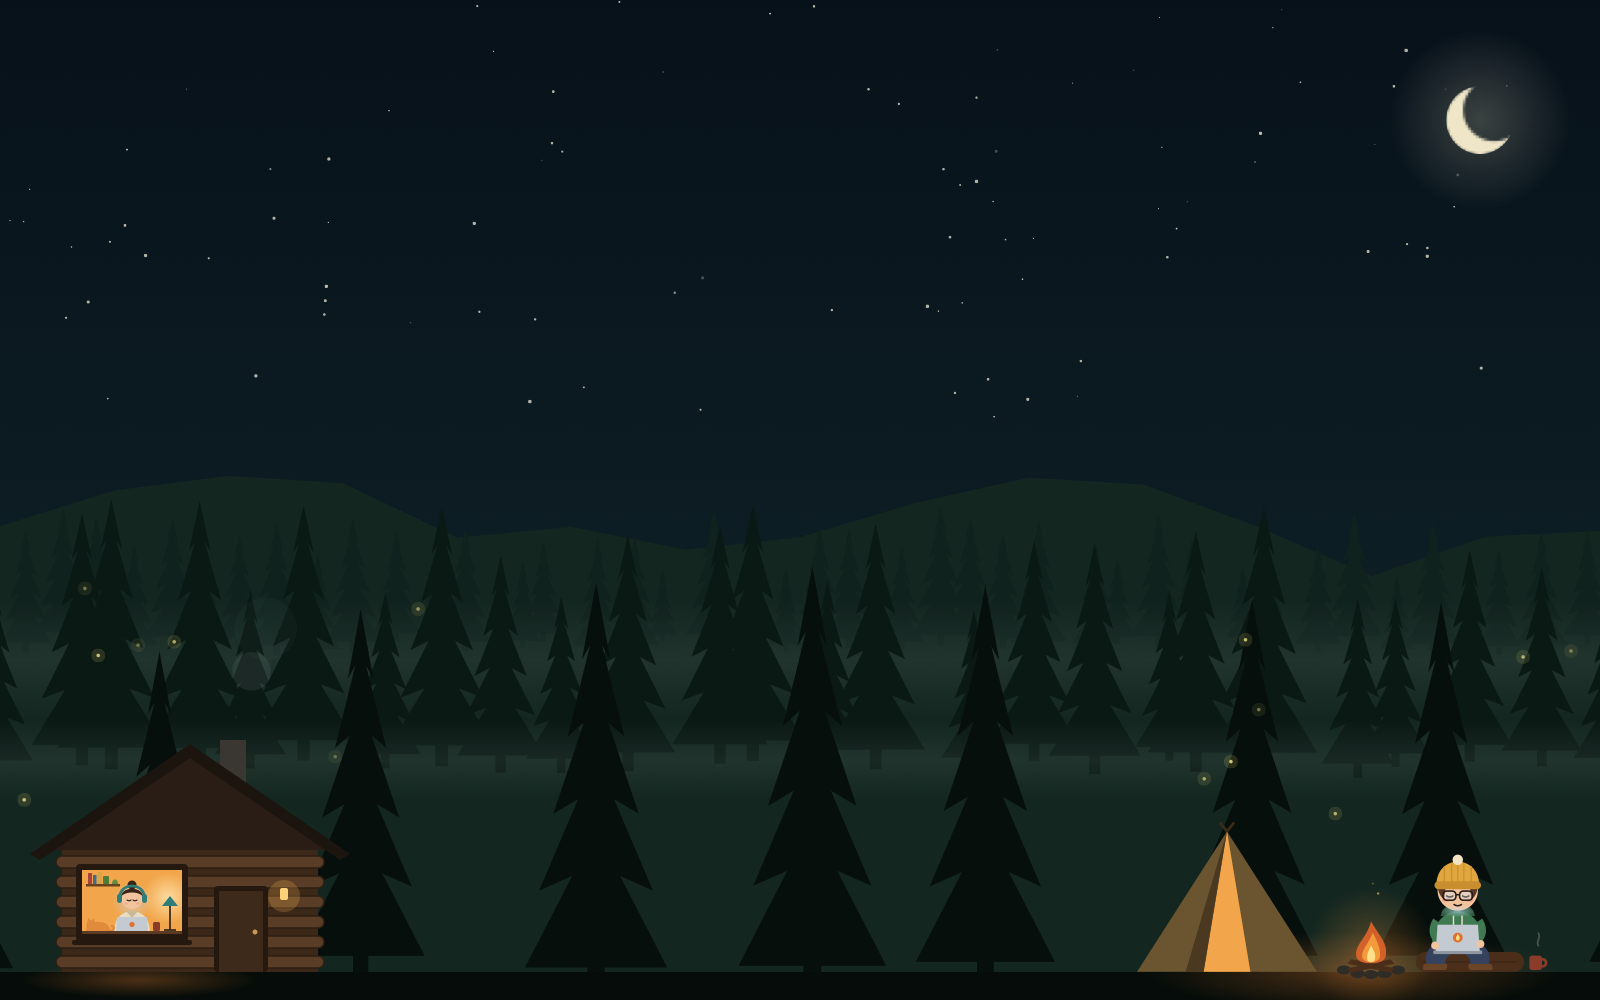
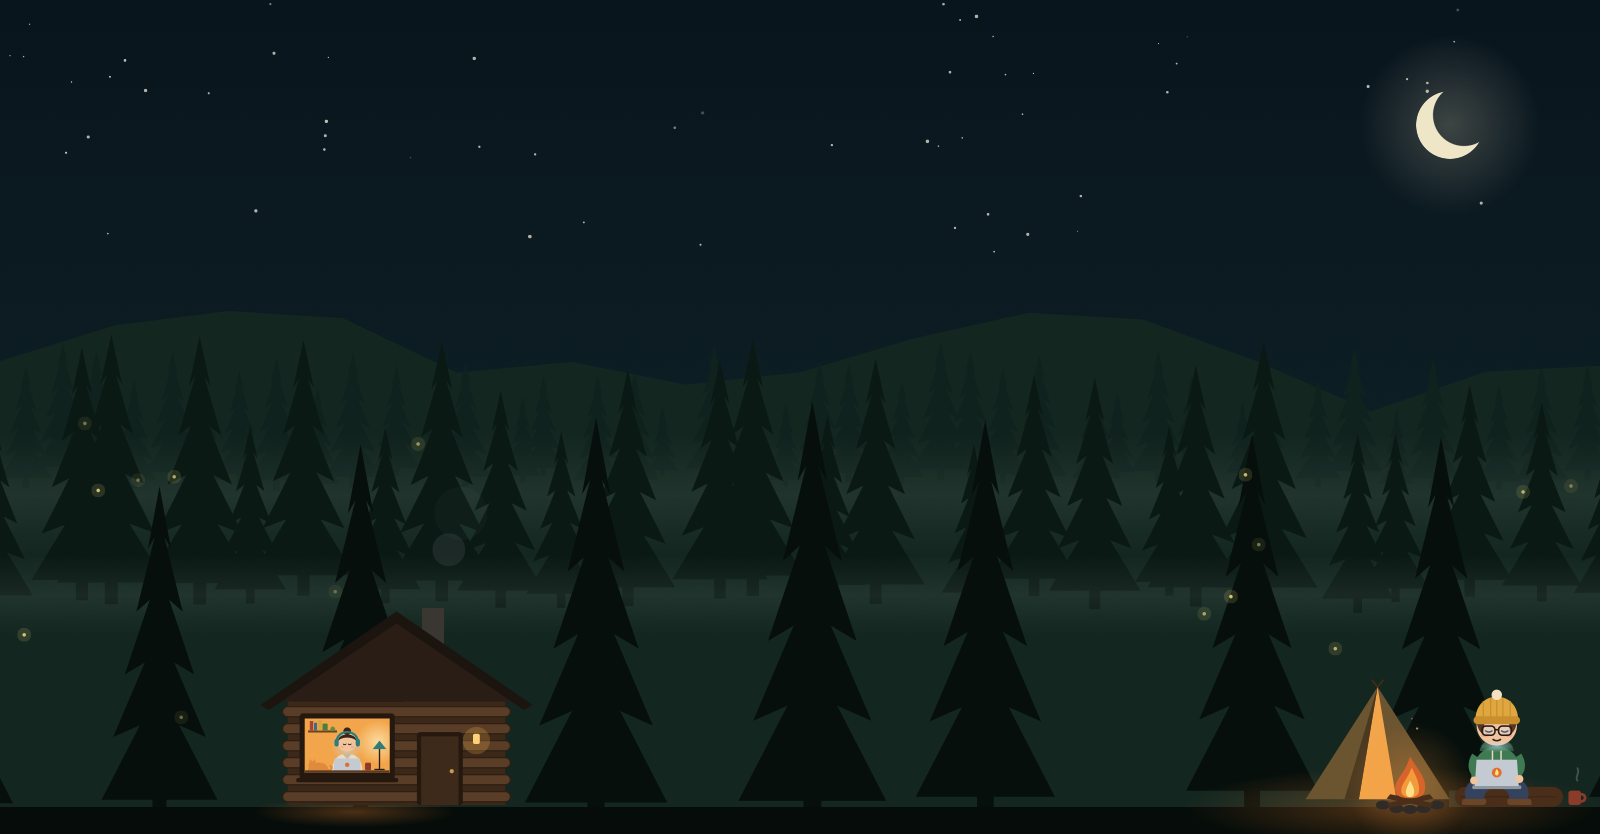
Keep the cabin and campsite in view on wide windows (0.1.1)
Anchor the backdrop to the bottom so wide windows crop only the sky,
move the cabin between the sidebar and the chat column, set the tent
back behind the fire, and lower the moon.

diff --git a/hooks/scene.ts b/hooks/scene.ts
@@ -1,5 +1,5 @@
 // Generated by gen-scene.mjs: a quiet pine forest at night, a log cabin and a campfire.
-export const SCENE = `<svg xmlns="http://www.w3.org/2000/svg" viewBox="0 0 1600 1000" preserveAspectRatio="xMidYMid slice">
+export const SCENE = `<svg xmlns="http://www.w3.org/2000/svg" viewBox="0 0 1600 1000" preserveAspectRatio="xMidYMax slice">
 <defs>
 <linearGradient id="sky" x1="0" y1="0" x2="0" y2="1"><stop offset="0" class="sky-a"/><stop offset=".55" class="sky-b"/><stop offset="1" class="sky-c"/></linearGradient>
 <mask id="crescent"><circle cx="300" cy="110" r="34" fill="#fff"/><circle cx="314" cy="100" r="31" class="moon-cut" fill="#000"/></mask>
@@ -95,7 +95,7 @@ export const SCENE = `<svg xmlns="http://www.w3.org/2000/svg" viewBox="0 0 1600 
 <rect width="1600" height="1000" fill="url(#sky)"/>
 <g class="stars"><circle cx="1374.9" cy="144.3" r="0.6" class="tw tw0"/><circle cx="1077.5" cy="396.2" r="0.6"/><circle cx="208.7" cy="258.3" r="1.2"/><circle cx="1281.8" cy="9.8" r="0.6" class="tw tw3"/><circle cx="943.5" cy="169.2" r="1.4"/><circle cx="328.3" cy="222.4" r="0.8"/><circle cx="1457.8" cy="175" r="1.6" class="tw tw2"/><circle cx="1445.8" cy="89.1" r="0.6"/><circle cx="1072.4" cy="83.1" r="0.7"/><circle cx="1255" cy="162" r="0.9" class="tw tw1"/><circle cx="274" cy="218.2" r="1.7"/><circle cx="127" cy="149.6" r="1.1"/><circle cx="66.1" cy="317.7" r="1.2" class="tw tw0"/><circle cx="663.1" cy="72" r="0.7"/><circle cx="1158.6" cy="208.7" r="0.7"/><circle cx="1481.2" cy="368.1" r="1.7" class="tw tw3"/><circle cx="938.4" cy="311.1" r="0.9"/><circle cx="479.4" cy="311.7" r="1.3"/><circle cx="1133.7" cy="70.3" r="0.8" class="tw tw2"/><circle cx="328.9" cy="159" r="1.8"/><circle cx="1393.9" cy="86.3" r="1.5"/><circle cx="10" cy="220.6" r="0.9" class="tw tw1"/><circle cx="950" cy="237.2" r="1.5"/><circle cx="1454.2" cy="206.7" r="1"/><circle cx="1005.5" cy="239.6" r="1" class="tw tw0"/><circle cx="700.5" cy="409.7" r="1.2"/><circle cx="1427.2" cy="256.2" r="1.8"/><circle cx="493.5" cy="51.3" r="0.8" class="tw tw3"/><circle cx="1161.9" cy="147.2" r="0.8"/><circle cx="71.5" cy="247" r="0.9"/><circle cx="702.7" cy="277.9" r="1.7" class="tw tw2"/><circle cx="88.2" cy="302" r="1.7"/><circle cx="960.1" cy="185" r="1"/><circle cx="1506.9" cy="85.9" r="0.8" class="tw tw1"/><circle cx="562.3" cy="151.6" r="1.2"/><circle cx="976.5" cy="181.4" r="1.9"/><circle cx="619.4" cy="1.9" r="1.1" class="tw tw0"/><circle cx="1368.1" cy="251.5" r="1.7"/><circle cx="29.6" cy="189.2" r="0.8"/><circle cx="898.8" cy="103.9" r="1.3" class="tw tw3"/><circle cx="389" cy="110.7" r="0.9"/><circle cx="109.9" cy="241.8" r="1.1"/><circle cx="1187.2" cy="201.8" r="0.8" class="tw tw2"/><circle cx="993.1" cy="201.5" r="0.9"/><circle cx="927.4" cy="306.3" r="1.9"/><circle cx="1272.9" cy="27.6" r="0.9" class="tw tw1"/><circle cx="1407.1" cy="244.2" r="1.2"/><circle cx="553.3" cy="91.6" r="1.5"/><circle cx="326.3" cy="286.3" r="1.8" class="tw tw0"/><circle cx="1027.8" cy="399.3" r="1.7"/><circle cx="962.2" cy="302.9" r="0.9"/><circle cx="1427.4" cy="248" r="1.4" class="tw tw3"/><circle cx="955" cy="392.9" r="1.3"/><circle cx="145.6" cy="255.5" r="1.8"/><circle cx="997.4" cy="49.9" r="1" class="tw tw2"/><circle cx="529.9" cy="401.6" r="1.9"/><circle cx="1300.4" cy="82.2" r="1"/><circle cx="270.4" cy="169.1" r="1.2" class="tw tw1"/><circle cx="831.8" cy="310.1" r="1.3"/><circle cx="541.9" cy="160.2" r="0.6"/><circle cx="1176.6" cy="228.6" r="1.1" class="tw tw0"/><circle cx="1167.4" cy="257.3" r="1.4"/><circle cx="770.1" cy="13.6" r="1.1"/><circle cx="477.3" cy="6.1" r="1.2" class="tw tw3"/><circle cx="1080.8" cy="361.1" r="1.4"/><circle cx="23.6" cy="221.6" r="0.9"/><circle cx="996.2" cy="151.3" r="1.6" class="tw tw2"/><circle cx="186.4" cy="89.1" r="0.6"/><circle cx="868.5" cy="89.3" r="1.4"/><circle cx="674.7" cy="292.7" r="1.4" class="tw tw1"/><circle cx="324.4" cy="314.5" r="1.4"/><circle cx="474.2" cy="223.4" r="1.8"/><circle cx="125" cy="225.4" r="1.5" class="tw tw0"/><circle cx="1033.4" cy="238.4" r="0.8"/><circle cx="583.8" cy="387.4" r="1.1"/><circle cx="107.8" cy="398.6" r="1" class="tw tw3"/><circle cx="1406.1" cy="50.4" r="1.9"/><circle cx="994.1" cy="416.7" r="1"/><circle cx="410.5" cy="322.7" r="0.9" class="tw tw2"/><circle cx="988.1" cy="379.3" r="1.5"/><circle cx="325.3" cy="300.7" r="1.6"/><circle cx="1490.3" cy="145.3" r="1.1" class="tw tw1"/><circle cx="1022.5" cy="279.2" r="1"/><circle cx="1159.5" cy="17.4" r="0.6"/><circle cx="1260.5" cy="133.3" r="1.8" class="tw tw0"/><circle cx="976.5" cy="97.6" r="1.3"/><circle cx="552" cy="143.2" r="1.4"/><circle cx="535.2" cy="319.4" r="1.3" class="tw tw3"/><circle cx="255.9" cy="375.9" r="1.8"/><circle cx="814" cy="6.4" r="1.4"/></g>
 
-<g transform="translate(1180 10)">
+<g transform="translate(1150 180)">
   <circle cx="300" cy="110" r="90" fill="url(#moonHalo)"/>
   <circle cx="300" cy="110" r="34" class="moon" mask="url(#crescent)"/>
 </g>
@@ -109,7 +109,7 @@ export const SCENE = `<svg xmlns="http://www.w3.org/2000/svg" viewBox="0 0 1600 
 <path d="M0 972H1600V1000H0Z" class="ground"/>
 <g class="flies"><g class="fly" style="animation-duration:14.9s;animation-delay:-10.6s"><circle cx="81.8" cy="676.9" r="7" class="fly-halo"/><circle cx="81.8" cy="676.9" r="1.8" class="fly-core"/></g><g class="fly" style="animation-duration:10.3s;animation-delay:-7.7s"><circle cx="1217.7" cy="778.9" r="7" class="fly-halo"/><circle cx="1217.7" cy="778.9" r="1.8" class="fly-core"/></g><g class="fly" style="animation-duration:13.6s;animation-delay:-10.6s"><circle cx="13.8" cy="813.4" r="7" class="fly-halo"/><circle cx="13.8" cy="813.4" r="1.8" class="fly-core"/></g><g class="fly" style="animation-duration:14.7s;animation-delay:-4.8s"><circle cx="1503.6" cy="682.4" r="7" class="fly-halo"/><circle cx="1503.6" cy="682.4" r="1.8" class="fly-core"/></g><g class="fly" style="animation-duration:14.8s;animation-delay:-6.3s"><circle cx="113.2" cy="677.6" r="7" class="fly-halo"/><circle cx="113.2" cy="677.6" r="1.8" class="fly-core"/></g><g class="fly" style="animation-duration:13.3s;animation-delay:-7.7s"><circle cx="1546.3" cy="683.3" r="7" class="fly-halo"/><circle cx="1546.3" cy="683.3" r="1.8" class="fly-core"/></g><g class="fly" style="animation-duration:15.4s;animation-delay:-8.7s"><circle cx="156.1" cy="915.2" r="7" class="fly-halo"/><circle cx="156.1" cy="915.2" r="1.8" class="fly-core"/></g><g class="fly" style="animation-duration:11.5s;animation-delay:-2.2s"><circle cx="1327.4" cy="824" r="7" class="fly-halo"/><circle cx="1327.4" cy="824" r="1.8" class="fly-core"/></g><g class="fly" style="animation-duration:14.2s;animation-delay:-9.3s"><circle cx="153.4" cy="669" r="7" class="fly-halo"/><circle cx="153.4" cy="669" r="1.8" class="fly-core"/></g><g class="fly" style="animation-duration:9.1s;animation-delay:-3.7s"><circle cx="1234.6" cy="741.2" r="7" class="fly-halo"/><circle cx="1234.6" cy="741.2" r="1.8" class="fly-core"/></g><g class="fly" style="animation-duration:12.5s;animation-delay:-6.1s"><circle cx="309.2" cy="790.6" r="7" class="fly-halo"/><circle cx="309.2" cy="790.6" r="1.8" class="fly-core"/></g><g class="fly" style="animation-duration:12.2s;animation-delay:-2.1s"><circle cx="1197.8" cy="787.2" r="7" class="fly-halo"/><circle cx="1197.8" cy="787.2" r="1.8" class="fly-core"/></g><g class="fly" style="animation-duration:10.7s;animation-delay:-6.2s"><circle cx="60.2" cy="620.7" r="7" class="fly-halo"/><circle cx="60.2" cy="620.7" r="1.8" class="fly-core"/></g><g class="fly" style="animation-duration:10.8s;animation-delay:-4.1s"><circle cx="1584.3" cy="918.9" r="7" class="fly-halo"/><circle cx="1584.3" cy="918.9" r="1.8" class="fly-core"/></g><g class="fly" style="animation-duration:13.9s;animation-delay:-5.1s"><circle cx="395.9" cy="638" r="7" class="fly-halo"/><circle cx="395.9" cy="638" r="1.8" class="fly-core"/></g><g class="fly" style="animation-duration:15.2s;animation-delay:-3.8s"><circle cx="1232.5" cy="656.8" r="7" class="fly-halo"/><circle cx="1232.5" cy="656.8" r="1.8" class="fly-core"/></g></g>
 
-<g transform="translate(0 580)">
+<g transform="translate(235 637) scale(0.85)">
   <!-- window light on the ground -->
   <ellipse cx="140" cy="400" rx="120" ry="18" fill="url(#fireGround)" class="ground-glow"/>
   <!-- chimney smoke -->
@@ -170,13 +170,15 @@ export const SCENE = `<svg xmlns="http://www.w3.org/2000/svg" viewBox="0 0 1600 
   <rect x="280" y="308" width="8" height="12" rx="2" class="lantern"/>
 </g>
 
-<g transform="translate(1110 619) scale(0.9)">
+<g transform="translate(1149 619) scale(0.9)">
   <ellipse cx="270" cy="392" rx="230" ry="44" fill="url(#fireGround)" class="ground-glow"/>
-  <!-- tent, lit from inside -->
+  <!-- tent, lit from inside, set back behind the fire -->
+  <g transform="translate(150 70) scale(0.8)">
   <path d="M30 392L130 236L230 392Z" class="tent"/>
   <path d="M130 236L104 392H156Z" class="tent-in"/>
   <path d="M130 236L84 392H104Z" class="tent-flap"/>
   <path d="M130 236L122 226M130 236L138 226" class="rope"/>
+  </g>
   <!-- campfire -->
   <g transform="translate(290 392)">
     <circle cx="0" cy="-24" r="70" fill="url(#fireHalo)" class="halo"/>
